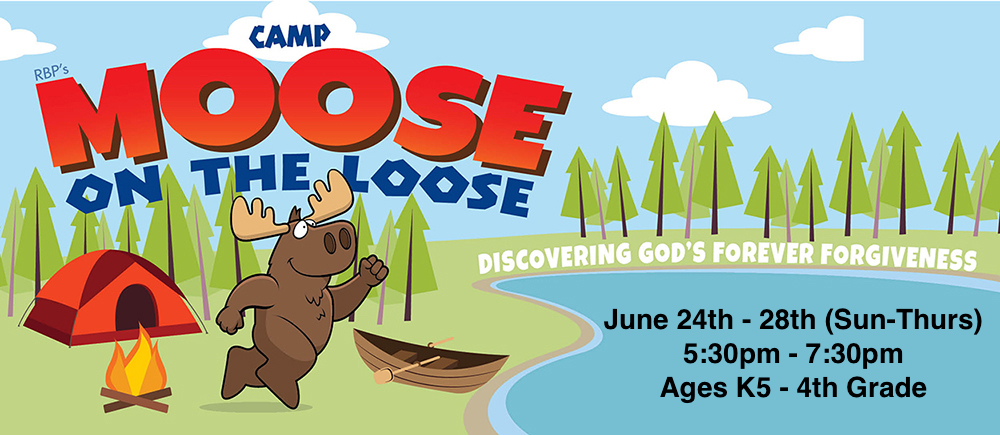
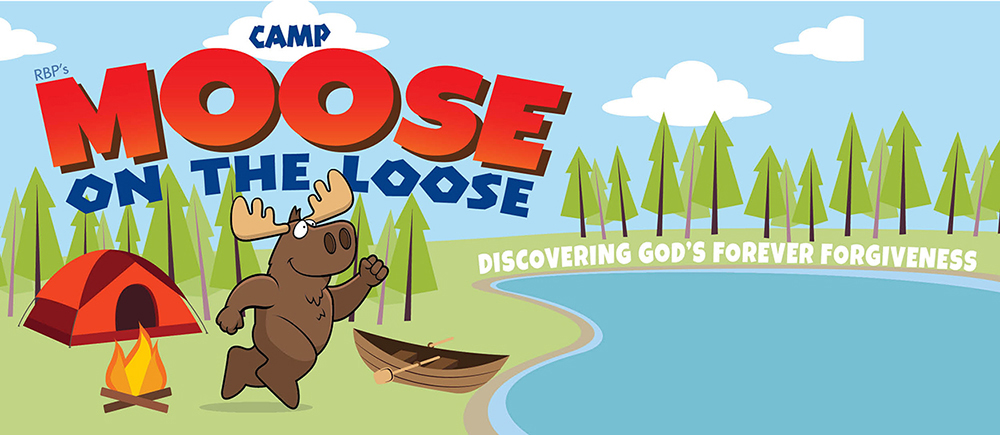
add OG image and add vbs page

Changed region(s): [[0.589, 0.6874, 0.992, 0.8368], [0.651, 0.8667, 0.93, 0.9264]]

diff --git a/source/stylesheets/vbs/slices/_info.scss b/source/stylesheets/vbs/slices/_info.scss
@@ -1,3 +1,8 @@
 .Info {
-  
+  @include Slice;
+
+  &-detail {
+    @include scut-margin(n n cubits(1));
+    @include font(m, bold);
+  }
 }
